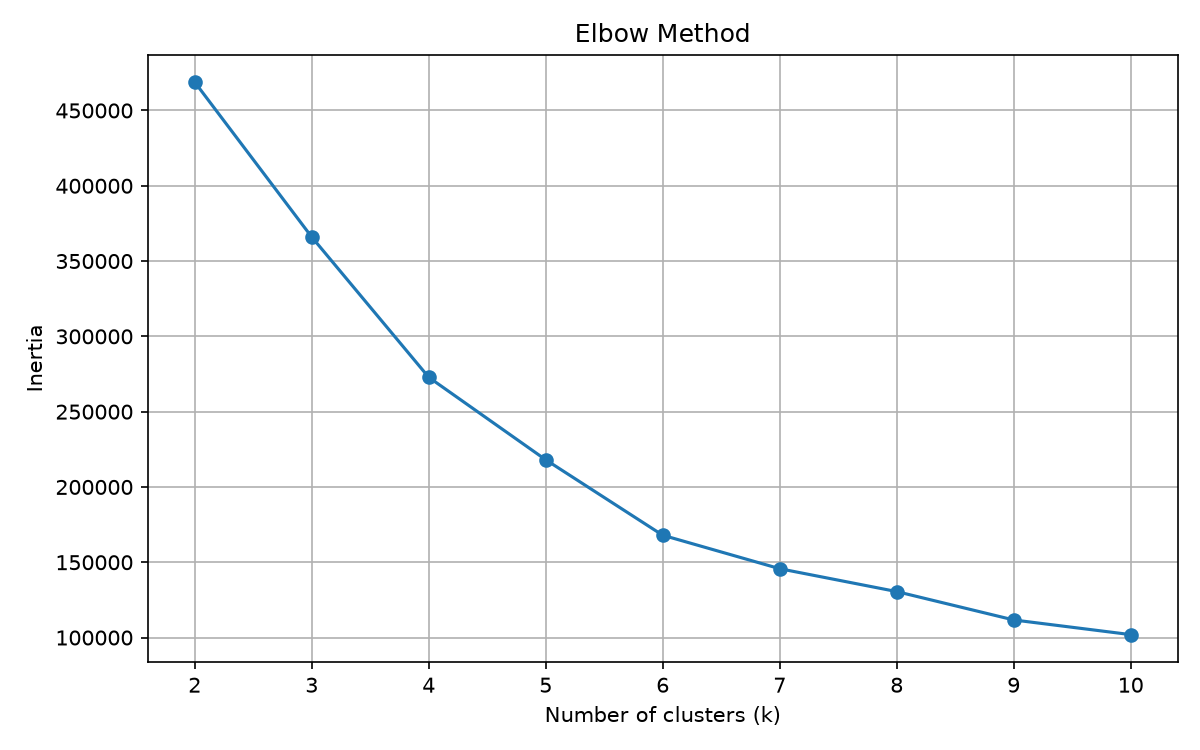
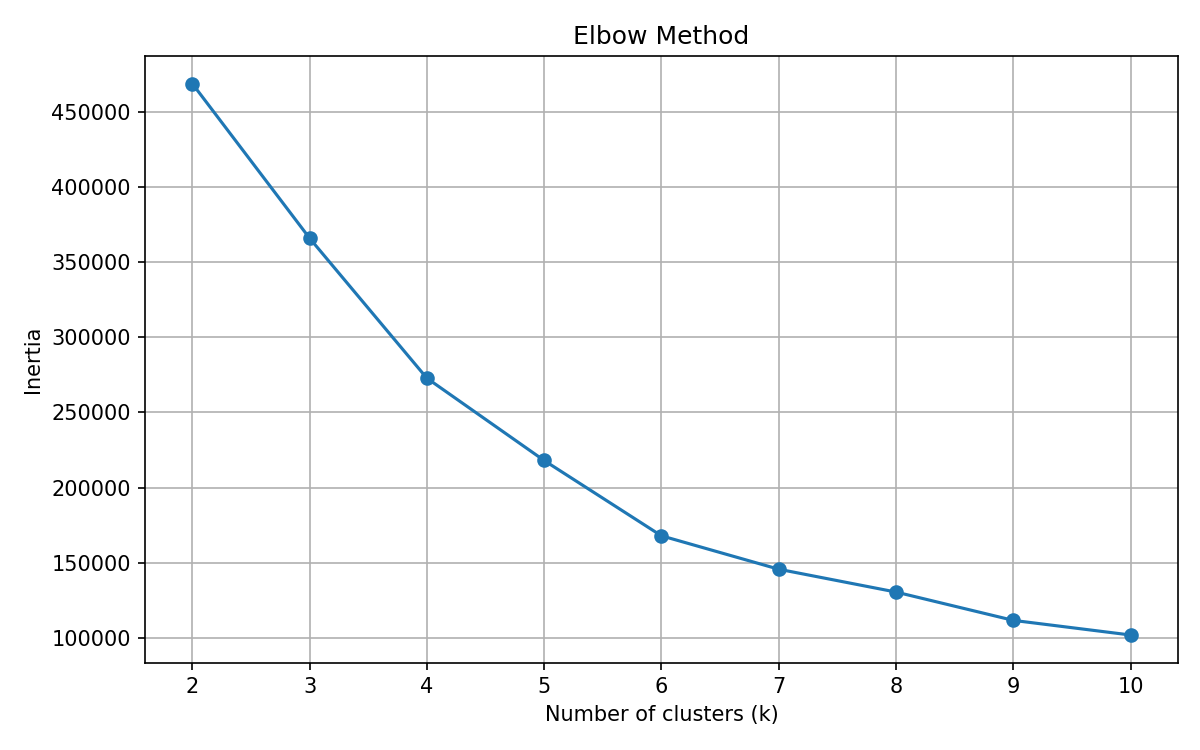
dbscan param

diff --git a/coast.py b/coast.py
@@ -92,7 +92,7 @@ def signed_dist(lon, lat, plot=False):
 
 if __name__ == "__main__":
     # Testing
-    print(signed_dist(139.93388366699222, 36.14829194853206, True))
+    print(signed_dist(139.93388366699222, 45.0, True))
     print(signed_dist(142, 36, True))
     # Should be able to just directly
     # from coast import signed_dist

diff --git a/dbscan.py b/dbscan.py
@@ -23,6 +23,8 @@ from formulas import mag2e
 
 features = earthquake[
     [
+        'x_coord',
+        'y_coord',
         'depthKm',
         'seismic_energy',
         'coast_distance',
